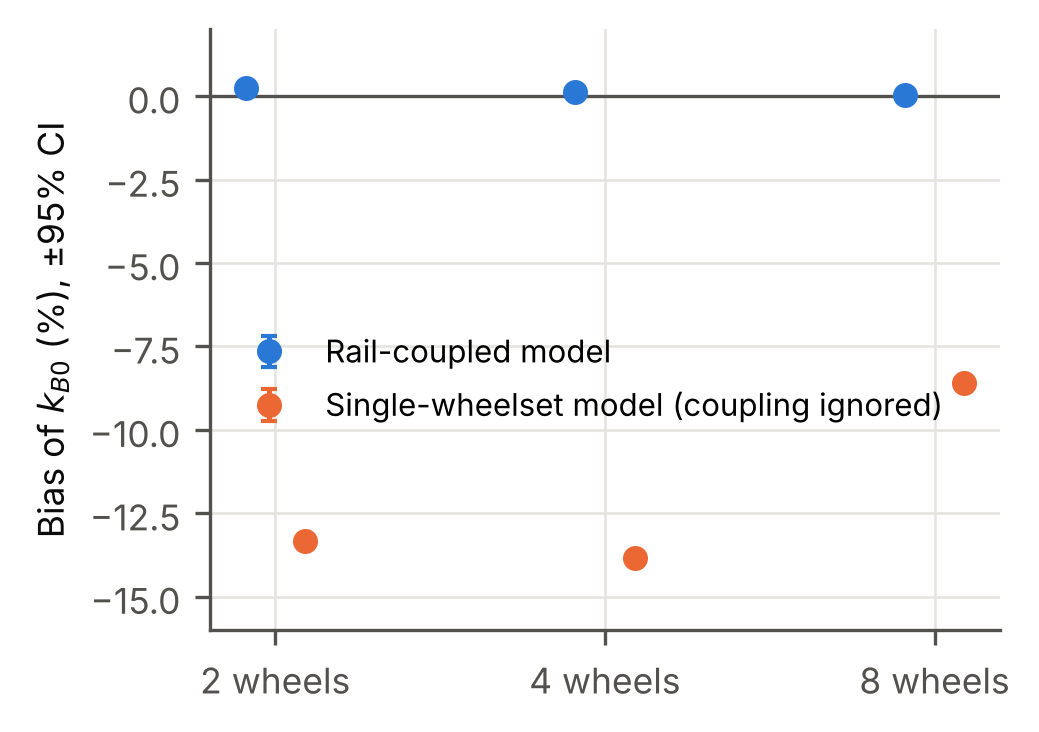
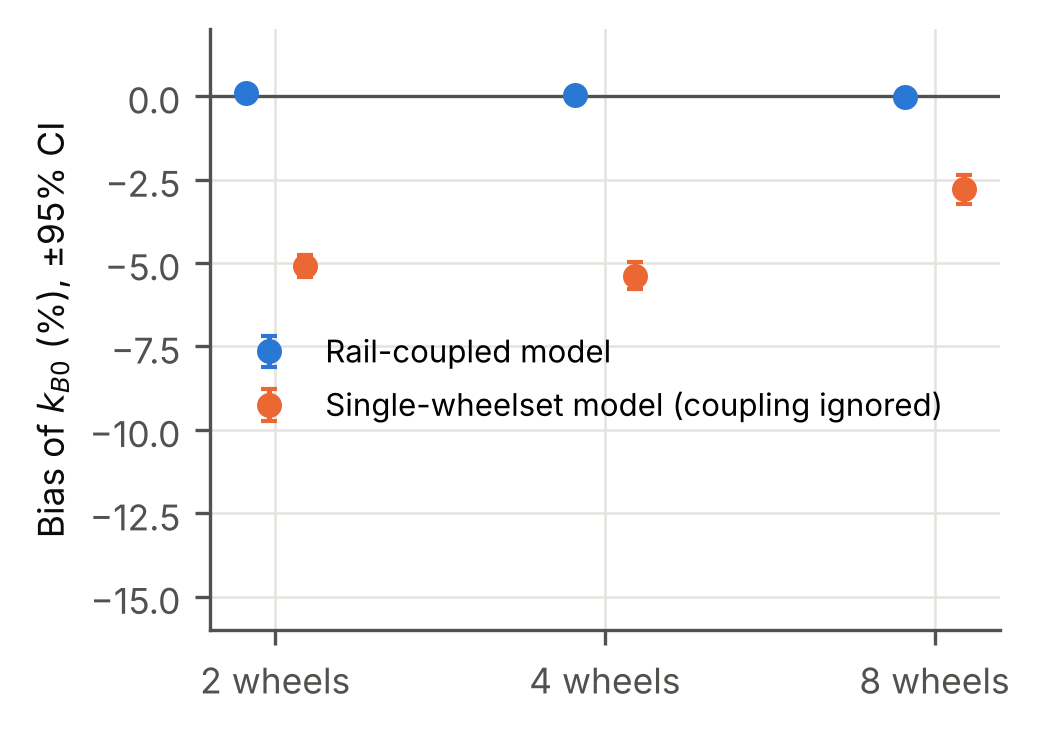
Narrow regeneration after the multi-wheel Monte Carlo at the current wagon (Table 5, Figure 4, MW macros, provenance)
Claude-Session: https://claude.ai/code/session_01QcCntpHGDKF5PSbkToAw92

diff --git a/results/tables/table5_multiwheel.tex b/results/tables/table5_multiwheel.tex
@@ -1,6 +1,6 @@
-% generated by experiments/make_tables.py from results/p2/multiwheel_bound.json, results/p2/multiwheel_mc.json; do not edit
+% generated by experiments/make_tables.py from results/p2/multiwheel_bound.json, results/p2/multiwheel_mc_y25.json; do not edit
 \begin{table}[tbp]\centering\scriptsize
-\caption{Multi-wheel coupling through the rail (k\_B0) (partly earlier configuration: metro wheel layout, BS113A rail, +-30-bin kernel)}\label{tab:table5_multiwheel}
+\caption{Multi-wheel coupling through the rail (k\_B0)}\label{tab:table5_multiwheel}
 \resizebox{\textwidth}{!}{\begin{minipage}{1.6\textwidth}\centering
 \par\textbf{(a) Bound}\par
 \begin{tabular}{lllllll}
@@ -25,15 +25,15 @@ Rail & Wheels & Speeds & N & SNR (dB) & CRB k\_B0 (\%) & CRB c\_B (\%) \\ \midru
 \begin{tabular}{lllllll}
 \toprule
 Wheels & Fitted model & Datasets & Bias (\%) $\pm$ SE & RMSE (\%) & RMSE/CRB & Wald 90\% cov. [95\% CI] \\ \midrule
-2 & rail-coupled & 10 & 0.24 $\pm$ 0.07 & 0.32 & 1.91 & 0.50 [0.19, 0.81] \\
-2 & single wheelset & 10 & -13.34 $\pm$ 0.08 & 14.32 & 85.89 & 0.10 [0.00, 0.45] \\
-4 & rail-coupled & 10 & 0.12 $\pm$ 0.04 & 0.17 & 0.98 & 0.90 [0.55, 1.00] \\
-4 & single wheelset & 10 & -13.85 $\pm$ 0.07 & 14.91 & 87.88 & 0.00 [0.00, 0.31] \\
-8 & rail-coupled & 10 & 0.04 $\pm$ 0.04 & 0.14 & 0.81 & 0.90 [0.55, 1.00] \\
-8 & single wheelset & 10 & -8.60 $\pm$ 0.09 & 9.00 & 52.86 & 0.00 [0.00, 0.31] \\
+2 & rail-coupled & 10 & 0.11 $\pm$ 0.05 & 0.18 & 1.10 & 0.80 [0.44, 0.97] \\
+2 & single wheelset & 10 & -5.09 $\pm$ 0.16 & 5.25 & 31.80 & 0.00 [0.00, 0.31] \\
+4 & rail-coupled & 10 & 0.02 $\pm$ 0.06 & 0.18 & 1.07 & 0.90 [0.55, 1.00] \\
+4 & single wheelset & 10 & -5.38 $\pm$ 0.21 & 5.57 & 33.19 & 0.00 [0.00, 0.31] \\
+8 & rail-coupled & 10 & -0.02 $\pm$ 0.06 & 0.18 & 1.09 & 0.90 [0.55, 1.00] \\
+8 & single wheelset & 10 & -2.80 $\pm$ 0.22 & 2.91 & 17.29 & 0.00 [0.00, 0.31] \\
 \bottomrule
 \end{tabular}
 
-\par\smallskip{\footnotesize The 2-wheel rail-coupled bias is an open item (docs/paper1\_outline.md).}
+\par\smallskip{\footnotesize Rail-coupled bias beyond 2 SE: 2-wheel +0.11 $\pm$ 0.05\% (2.2 SE); not explained (open item, docs/paper1\_outline.md).}
 \end{minipage}}
 \end{table}

diff --git a/docs/provenance.md b/docs/provenance.md
@@ -9,7 +9,6 @@ Frozen configuration hash `e0a22f267362` (config/params.yaml + config/track.yaml
 - `results/p1/bound_speed_subband.json`: single wheelset on a rail oscillator
 - `results/p1/fe_direct.json`: single wheelset on a rail oscillator
 - `results/p2/debias_check.json`: CT23 12-wheel lumped vehicle, resilient track
-- `results/p2/multiwheel_mc.json`: metro wheel layout, BS113A rail, +-30-bin kernel
 - `results/p2/partial_coherence_bound.json`: single wheelset on a rail oscillator
 - `results/p2/partial_coherence_mc.json`: single wheelset on a rail oscillator
 - `results/p2/partial_indep.json`: single wheelset on a rail oscillator
@@ -38,7 +37,7 @@ Frozen configuration hash `e0a22f267362` (config/params.yaml + config/track.yaml
 | `results/p2/fig1_transfer.json` | frozen | e0a22f267362 | hash verified |
 | `results/p2/model_form_mw_sensitivity.json` | frozen | - | declared |
 | `results/p2/multiwheel_bound.json` | frozen | - | declared |
-| `results/p2/multiwheel_mc.json` | earlier | - | declared |
+| `results/p2/multiwheel_mc_y25.json` | frozen | e0a22f267362 | hash verified |
 | `results/p2/partial_coherence_bound.json` | earlier | - | declared |
 | `results/p2/partial_coherence_mc.json` | earlier | - | declared |
 | `results/p2/partial_indep.json` | earlier | - | declared |
@@ -77,7 +76,7 @@ Frozen configuration hash `e0a22f267362` (config/params.yaml + config/track.yaml
 | table | table2_verification | results/p1/verification.json, results/gates/G1.json | frozen | ok |
 | table | table3_headline | results/p3/headline_v2_kb120_attr_frozen10.json, results/p3/calibrated.json, results/p4/ignore_coupling.json | frozen | ok |
 | table | table4_speed_N | results/p1/fe_direct.json | earlier | ok |
-| table | table5_multiwheel | results/p2/multiwheel_bound.json, results/p2/multiwheel_mc.json | earlier/frozen | ok |
+| table | table5_multiwheel | results/p2/multiwheel_bound.json, results/p2/multiwheel_mc_y25.json | frozen | ok |
 | table | table14_validation | results/p4/bias_diag_y25.json | pinned | ok |
 | table | table6_budget | results/p2/model_form_mw_sensitivity.json | frozen | ok |
 | table | table15_sweep | results/p4/sweep.json | frozen | ok |
@@ -92,7 +91,7 @@ Frozen configuration hash `e0a22f267362` (config/params.yaml + config/track.yaml
 | figure | fig1_transfer_functions | results/p2/fig1_transfer.json | frozen | ok |
 | figure | fig2_crb_vs_speed_spread | results/p1/bound_speed_subband.json | earlier | ok |
 | figure | fig3_debiased_periodogram | results/p2/debias_check.json | earlier | ok |
-| figure | fig4_multiwheel_bias | results/p2/multiwheel_mc.json | earlier | ok |
+| figure | fig4_multiwheel_bias | results/p2/multiwheel_mc_y25.json | frozen | ok |
 | figure | fig5_model_form_tornado | results/p2/model_form_mw_sensitivity.json | frozen | ok |
 | figure | fig6_relative_change | results/p2/relative_change.json, results/p2/relative_intervals.json | earlier | ok |
 | figure | fig7_p2_validation | results/p2/scope_p2_hysteretic.json | earlier | ok |
@@ -376,15 +375,16 @@ Frozen configuration hash `e0a22f267362` (config/params.yaml + config/track.yaml
 | `\MWCRBFixedMin` | results/p2/multiwheel_bound.json | frozen | sec4_results | ok |
 | `\MWCRBMax` | results/p2/multiwheel_bound.json | frozen | sec4_results | ok |
 | `\MWCRBMin` | results/p2/multiwheel_bound.json | frozen | sec4_results | ok |
-| `\MWCorrectBiasEight` | results/p2/multiwheel_mc.json | earlier | sec4_results | labelled |
-| `\MWCorrectBiasFour` | results/p2/multiwheel_mc.json | earlier | sec4_results | labelled |
-| `\MWCorrectBiasSEEight` | results/p2/multiwheel_mc.json | earlier | sec4_results | labelled |
-| `\MWCorrectBiasSEFour` | results/p2/multiwheel_mc.json | earlier | sec4_results | labelled |
-| `\MWCorrectBiasSETwo` | results/p2/multiwheel_mc.json | earlier | sec4_results | labelled |
-| `\MWCorrectBiasTwo` | results/p2/multiwheel_mc.json | earlier | sec4_results | labelled |
-| `\MWSingleBiasEight` | results/p2/multiwheel_mc.json | earlier | sec4_results | labelled |
-| `\MWSingleBiasFour` | results/p2/multiwheel_mc.json | earlier | sec4_results | labelled |
-| `\MWSingleBiasTwo` | results/p2/multiwheel_mc.json | earlier | sec4_results | labelled |
+| `\MWCorrectBiasEight` | results/p2/multiwheel_mc_y25.json | frozen | sec4_results | ok |
+| `\MWCorrectBiasFour` | results/p2/multiwheel_mc_y25.json | frozen | sec4_results | ok |
+| `\MWCorrectBiasSEEight` | results/p2/multiwheel_mc_y25.json | frozen | sec4_results | ok |
+| `\MWCorrectBiasSEFour` | results/p2/multiwheel_mc_y25.json | frozen | sec4_results | ok |
+| `\MWCorrectBiasSETwo` | results/p2/multiwheel_mc_y25.json | frozen | sec4_results | ok |
+| `\MWCorrectBiasTwo` | results/p2/multiwheel_mc_y25.json | frozen | sec4_results | ok |
+| `\MWCorrectZTwo` | results/p2/multiwheel_mc_y25.json | frozen | sec4_results | ok |
+| `\MWSingleBiasEight` | results/p2/multiwheel_mc_y25.json | frozen | sec4_results | ok |
+| `\MWSingleBiasFour` | results/p2/multiwheel_mc_y25.json | frozen | sec4_results | ok |
+| `\MWSingleBiasTwo` | results/p2/multiwheel_mc_y25.json | frozen | sec4_results | ok |
 | `\NElements` | results/p1/verification.json | frozen | sec2_model | ok |
 | `\NoiseBinsMax` | config/params.yaml | frozen | sec3_method | ok |
 | `\NoiseBinsMin` | config/params.yaml | frozen | sec3_method | ok |

diff --git a/results/tables/table5_multiwheel.md b/results/tables/table5_multiwheel.md
@@ -1,4 +1,4 @@
-# Table 5. Multi-wheel coupling through the rail (k_B0) (partly earlier configuration: metro wheel layout, BS113A rail, +-30-bin kernel)
+# Table 5. Multi-wheel coupling through the rail (k_B0)
 
 **(a) Bound**
 
@@ -21,14 +21,14 @@
 
 | Wheels | Fitted model | Datasets | Bias (%) ± SE | RMSE (%) | RMSE/CRB | Wald 90% cov. [95% CI] |
 |---|---|---|---|---|---|---|
-| 2 | rail-coupled | 10 | 0.24 ± 0.07 | 0.32 | 1.91 | 0.50 [0.19, 0.81] |
-| 2 | single wheelset | 10 | -13.34 ± 0.08 | 14.32 | 85.89 | 0.10 [0.00, 0.45] |
-| 4 | rail-coupled | 10 | 0.12 ± 0.04 | 0.17 | 0.98 | 0.90 [0.55, 1.00] |
-| 4 | single wheelset | 10 | -13.85 ± 0.07 | 14.91 | 87.88 | 0.00 [0.00, 0.31] |
-| 8 | rail-coupled | 10 | 0.04 ± 0.04 | 0.14 | 0.81 | 0.90 [0.55, 1.00] |
-| 8 | single wheelset | 10 | -8.60 ± 0.09 | 9.00 | 52.86 | 0.00 [0.00, 0.31] |
+| 2 | rail-coupled | 10 | 0.11 ± 0.05 | 0.18 | 1.10 | 0.80 [0.44, 0.97] |
+| 2 | single wheelset | 10 | -5.09 ± 0.16 | 5.25 | 31.80 | 0.00 [0.00, 0.31] |
+| 4 | rail-coupled | 10 | 0.02 ± 0.06 | 0.18 | 1.07 | 0.90 [0.55, 1.00] |
+| 4 | single wheelset | 10 | -5.38 ± 0.21 | 5.57 | 33.19 | 0.00 [0.00, 0.31] |
+| 8 | rail-coupled | 10 | -0.02 ± 0.06 | 0.18 | 1.09 | 0.90 [0.55, 1.00] |
+| 8 | single wheelset | 10 | -2.80 ± 0.22 | 2.91 | 17.29 | 0.00 [0.00, 0.31] |
 
 
-The 2-wheel rail-coupled bias is an open item (docs/paper1_outline.md).
+Rail-coupled bias beyond 2 SE: 2-wheel +0.11 ± 0.05% (2.2 SE); not explained (open item, docs/paper1_outline.md).
 
-Source: `results/p2/multiwheel_bound.json`, `results/p2/multiwheel_mc.json`
+Source: `results/p2/multiwheel_bound.json`, `results/p2/multiwheel_mc_y25.json`
